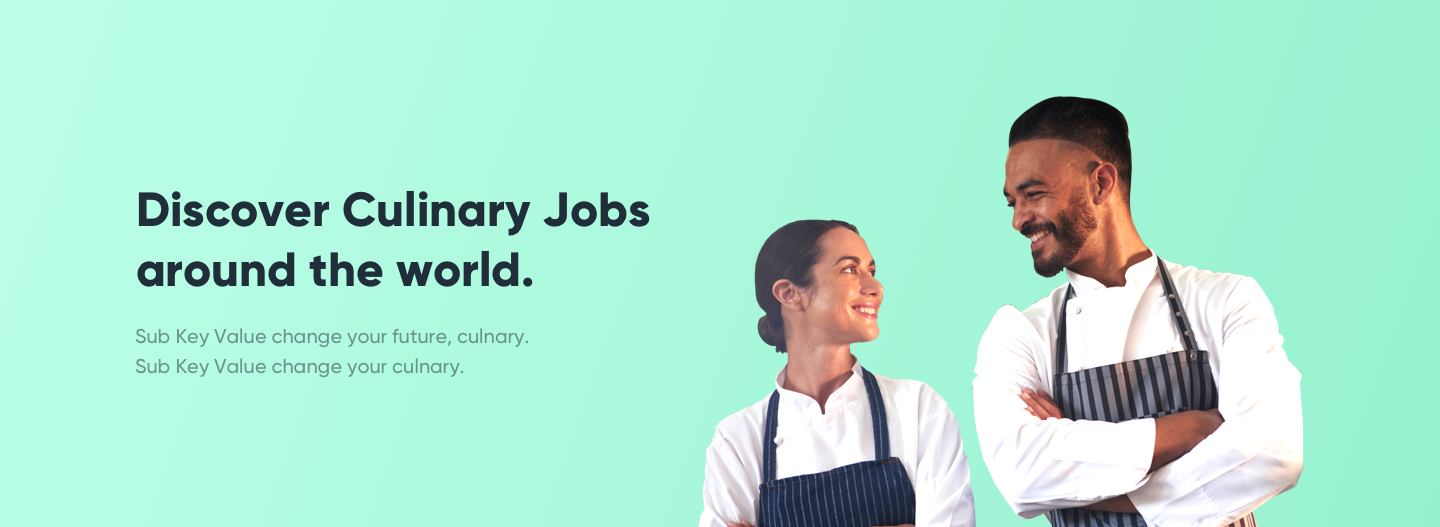
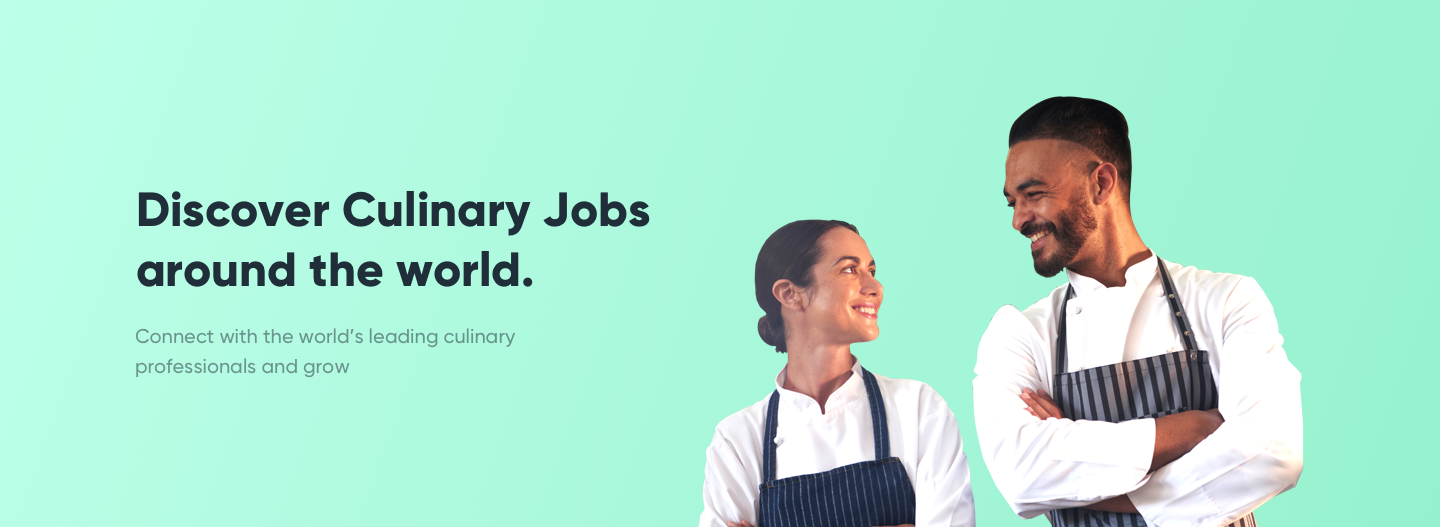
Making home page text correct

Changed region(s): [[0.0938, 0.6072, 0.375, 0.7287]]

diff --git a/src/components/HomePage.js b/src/components/HomePage.js
@@ -33,17 +33,17 @@ const HomePage = () => {
       </div>
       <SearchBar />
       <div className="create-profile">
-        <h2>Create Your Profile</h2>
+        <h2>How it Works</h2>
         <Slider className="steps" {...settings}>
           <div className="step">
             <div className="image-container">
                 <img src={require('../images/trophy.png')} />
             </div>
             <h3>
-              Establish a presence
+              Showcase Your Talent
             </h3>
             <p>
-            You’ll fill out a description, take and upload photos, and pick a price. Your listing helps guests get a sense of what your place is like.
+              Establish an online presence with a resume that makes you stand apart from the rest.
             </p>
           </div>
           <div className="step">
@@ -51,18 +51,22 @@ const HomePage = () => {
                 <img src={require('../images/future.png')} />
             </div>
             <h3>
-              Fuel your career
+              Drive Matches
             </h3>
-            <p>You set the availability and house rules for your listing. Host controls and calendar settings can help make hosting easier.</p>
+            <p>
+              Customize your profile with your experience and skill set. Drive more matches and get hired faster
+            </p>
           </div>
           <div className="step">
             <div className="image-container">
                 <img src={require('../images/globe.png')} />
             </div>
             <h3>
-              Learn and inspire
+              Grow Your Network
             </h3>
-            <p>From getting your home ready and choosing a price, to understanding your responsibilities under local laws — we’ve got tools and resources for you.</p>
+            <p>
+              Learn from other industry leaders and share your unique experiences on social.
+            </p>
           </div>
         </Slider>
       </div>
@@ -78,20 +82,21 @@ const HomePage = () => {
       <div className="why-chefstalk">
         <h2>Why to use ChefsTalk</h2>
         <div className="reasons">
+
           <div>
             <div className="step-number">01</div>
-            <h3>Establish a presence</h3>
-            <p>From saving for home repairs to taking a dream trip, use the extra income to fund your passions.</p>
+            <h3>Reach</h3>
+            <p>Expand your reach by posting your resume to the leading job board for culinary professionals. Learn about new opportunities, and get hired faster.</p>
           </div>
           <div>
           <div className="step-number">02</div>
-            <h3>Fuel your career</h3>
-            <p>Get tips and tools and connect with hosts like you from around the globe.</p>
+            <h3>Connect</h3>
+            <p>{"ChefsTalk is bringing the culinary community together. It's a place where culinary professionals and industry leaders from across the globe can connect and collaborate."}</p>
           </div>
           <div>
             <div className="step-number">03</div>
-            <h3>Learn and inspire</h3>
-            <p>You set your price and decide when you want to host and how often.</p>
+            <h3>Grow</h3>
+            <p>Grow your career with opportunities you find on ChefsTalk. Finding your dream job is easier than ever before. Find the role you were meant for.</p>
           </div>
         </div>
         <div className="signup">
